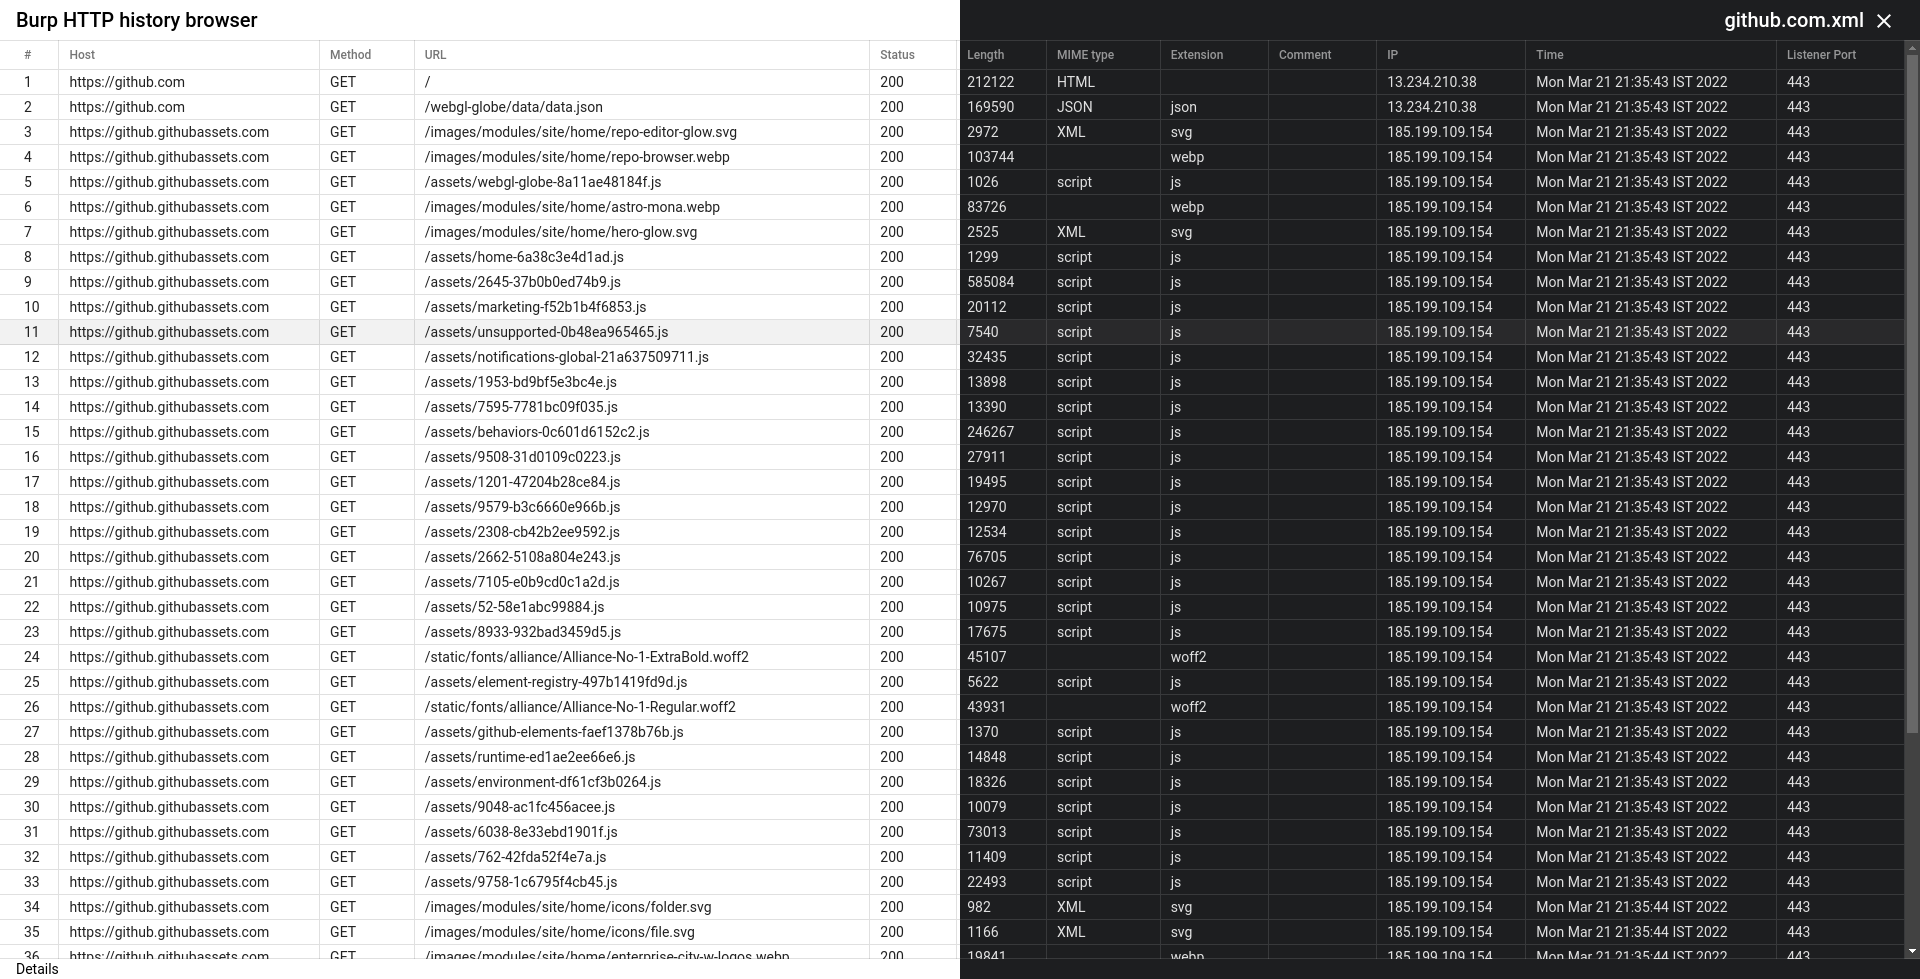
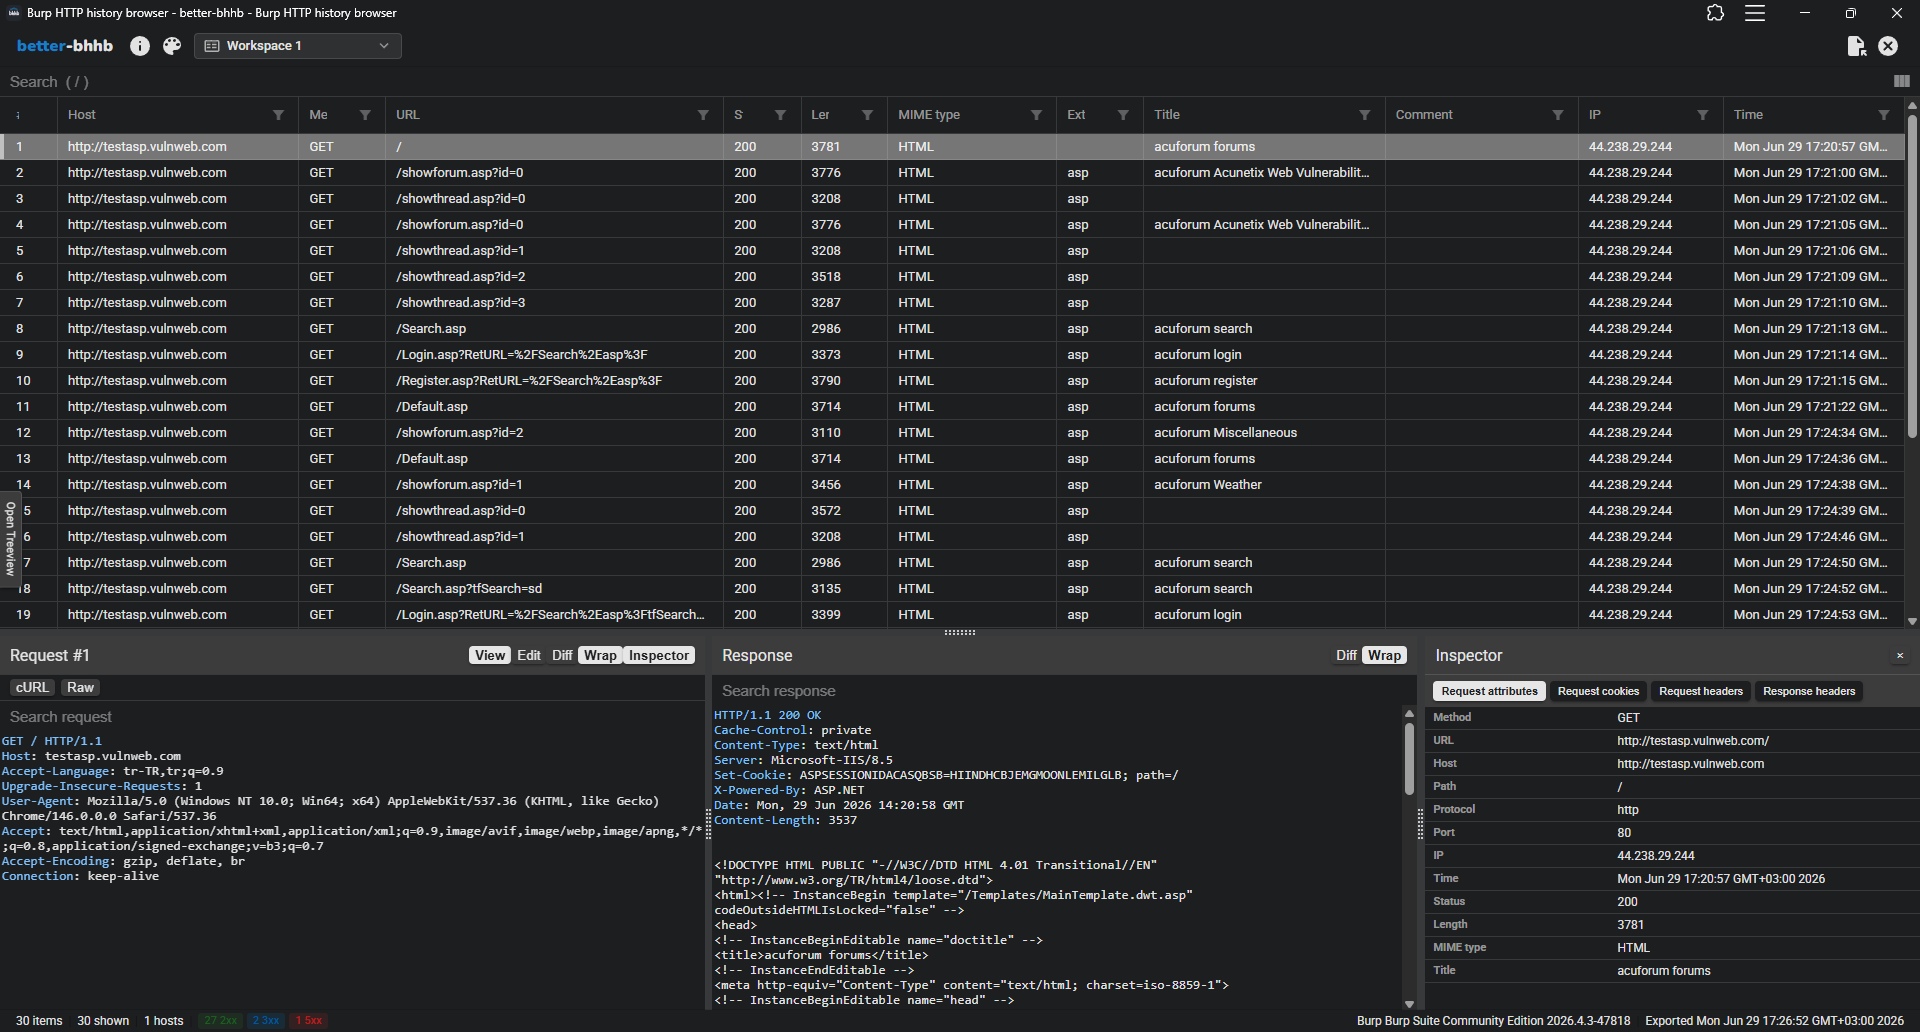
feat: enhance README and info dialog with detailed features and usage instructions; improve dialog styling

diff --git a/src/app/components/header/info-dialog.component.html b/src/app/components/header/info-dialog.component.html
@@ -3,7 +3,13 @@
 </h2>
 <mat-dialog-content class="mat-typography">
   <p align="center">
-    <svg class="app-logo" version="1.1" height="15" viewBox="0 0 108 22" xmlns="http://www.w3.org/2000/svg" xmlns:svg="http://www.w3.org/2000/svg"><text x="1" y="16" font-family="'Nunito', sans-serif" font-weight="900" font-size="16" fill="#177FC5">better<tspan fill="currentColor">-bhhb</tspan></text></svg> is a fork of bhhb — a tool to view HTTP history exported from Burp Suite Community Edition (CE).
+    <svg class="app-logo" version="1.1" height="15" viewBox="0 0 108 22" xmlns="http://www.w3.org/2000/svg" xmlns:svg="http://www.w3.org/2000/svg"><text x="1" y="16" font-family="'Nunito', sans-serif" font-weight="900" font-size="16" fill="#177FC5">better<tspan fill="currentColor">-bhhb</tspan></text></svg>
+    is a Swiss army knife for Burp HTTP history: import, filter, diff, replay, and export, all in the browser.
+  </p>
+  <p align="center">
+    Built for Burp Suite Community Edition. Runs as a
+    <a href="https://developer.mozilla.org/en-US/docs/Web/Progressive_web_apps"><code>PWA</code></a>:
+    install it, work offline, and keep your data on your device.
   </p>
 
   <div class="ext">
@@ -24,45 +30,52 @@
         <span>View Source on GitHub</span>
       </button>
     </a>
-    <a class="btn" href="https://github.com/adityatelange/bhhb">
+    <a class="btn" href="https://github.com/rizakara/better-bhhb/releases?q=burp-extension">
       <button mat-button>
         <svg role="img" viewBox="0 0 24 24" height='30' xmlns="http://www.w3.org/2000/svg" fill="currentColor"
           class="mat-icon notranslate material-icons mat-icon-no-color">
-          <path d="M12 .297c-6.63 0-12 5.373-12 12 0 5.303 3.438 
-                9.8 8.205 11.385.6.113.82-.258.82-.577 0-.285-.01-1.04-.015-2.04-3.338.724-4.042-1.61-4.042-1.61C4.422 
-                18.07 3.633 17.7 3.633 17.7c-1.087-.744.084-.729.084-.729 1.205.084 1.838 1.236 1.838 1.236 
-                1.07 1.835 2.809 1.305 3.495.998.108-.776.417-1.305.76-1.605-2.665-.3-5.466-1.332-5.466-5.93 
-                0-1.31.465-2.38 1.235-3.22-.135-.303-.54-1.523.105-3.176 0 0 1.005-.322 3.3 1.23.96-.267 
-                1.98-.399 3-.405 1.02.006 2.04.138 3 .405 2.28-1.552 3.285-1.23 3.285-1.23.645 1.653.24 2.873.12 
-                3.176.765.84 1.23 1.91 1.23 3.22 0 4.61-2.805 5.625-5.475 5.92.42.36.81 1.096.81 2.22 0 1.606-.015 
-                2.896-.015 3.286 0 .315.21.69.825.57C20.565 22.092 24 17.592 24 12.297c0-6.627-5.373-12-12-12" />
+          <path d="M19 9h-4V3H9v6H5l7 7 7-7zM5 18v2h14v-2H5z" />
         </svg>
-        <span>Original bhhb</span>
+        <span>Burp extension</span>
       </button>
     </a>
   </div>
+
   <hr>
+
+  <h3 class="info-section-title">What problem does this solve?</h3>
   <ul>
-    <li><code>Burp Suite Community Edition</code> has one BIG feature paywalled - Disk-based projects 💾.</li>
-    <li>Because of which Community Edition users cannot save their <code>HTTP history</code> and Sitemap info, which are
-      destroyed after the temporary session is closed 🗑️.</li>
-    <li>Although this is a thing, users can export their Burp CE's HTTP history by <em>selecting the records</em>
-      (Ctrl+A) and using <strong><code>Save items</code></strong> 💾 option in context menu of
-      <code>Proxy-&gt;HTTP history</code> or <code>Target-&gt;Sitemap</code> or <code>Logger</code>.
-    </li>
-    <li>Using that Burp will export the HTTP history along with Requests and Responses into a <em>XML file</em>.</li>
-    <li><strong><code>better-bhhb</code></strong> can open these exported items, parse it and display them in a well-formatted
-      manner. 📋</li>
-    <li>This application is a <a
-        href="https://developer.mozilla.org/en-US/docs/Web/Progressive_web_apps"><code>PWA</code></a>, which can be
-      installed in any chromium based browser and could run offline, with all of the processing done on device itself
-      ⚙️.</li>
-    <li>Linked Forum thread - <a
-        href="https://forum.portswigger.net/thread/how-do-i-view-items-export-from-burp-s-proxy-s-history-0ae0f99e">How
-        do I view items export from Burp's proxy's history?</a></li>
+    <li><code>Burp Suite Community Edition</code> does not include disk-based projects, so HTTP history, sitemap data, and Logger output are lost when a temporary session ends.</li>
+    <li>CE users can export records (Ctrl+A, then <strong><code>Save items</code></strong>) from
+      <code>Proxy-&gt;HTTP history</code>, <code>Target-&gt;Sitemap</code>, or <code>Logger</code> to a Burp XML file.</li>
+    <li><strong><code>better-bhhb</code></strong> opens those exports and presents them in a fast, filterable UI.</li>
   </ul>
 
-  <img width="100%" src="assets/bhhb.png" alt="">
+  <h3 class="info-section-title">Getting data in</h3>
+  <ul>
+    <li><strong>Burp extension (recommended):</strong> install the extension from
+      <a href="https://github.com/rizakara/better-bhhb/releases?q=burp-extension">GitHub Releases</a>,
+      keep this app open, then in Burp use <strong>Extensions &rarr; Send selected&hellip;</strong> (or
+      <strong>Send all&hellip;</strong> for proxy history / sitemap). The app imports automatically within a couple of seconds.</li>
+    <li><strong>Manual import:</strong> use <strong>Import files&hellip;</strong>, drag-and-drop XML onto the page, or reopen a file from
+      <strong>Imported sessions&hellip;</strong> (recent exports are remembered in IndexedDB).</li>
+    <li>On import you can merge, replace, or open a new workspace. Duplicate requests can be merged or skipped.</li>
+  </ul>
+
+  <h3 class="info-section-title">Features</h3>
+  <ul>
+    <li><strong>Import &amp; sessions:</strong> drag-and-drop, session history, duplicate merge/skip</li>
+    <li><strong>Workspaces:</strong> multi-tab layouts with <code>.bhhb-workspace.json</code> import/export</li>
+    <li><strong>Table &amp; filtering:</strong> column filters, tree view (<code>t</code>), global search (<code>/</code>, Ctrl+F)</li>
+    <li><strong>Analysis:</strong> diff, replay, cURL export, inspector, comments (<code>n</code>)</li>
+    <li><strong>More:</strong> fast indexing, themes, filtered export, keyboard navigation</li>
+  </ul>
+
+  <p class="info-license">
+    <a href="https://github.com/rizakara/better-bhhb/blob/main/LICENSE" target="_blank" rel="noopener noreferrer">License</a>
+  </p>
+
+  <img width="100%" src="assets/bhhb.png" alt="Better-BHHB screenshot">
 
 </mat-dialog-content>
 <mat-dialog-actions align="end">

diff --git a/src/app/components/header/info-dialog.component.css b/src/app/components/header/info-dialog.component.css
@@ -22,7 +22,34 @@ a:visited {
 
 ul {
     padding: 0 15px;
+    margin: 0 0 12px;
 }
+
+.info-section-title {
+    margin: 16px 0 8px;
+    font-size: calc(15px * var(--font-scale));
+    font-weight: 600;
+}
+
+.info-license {
+    margin: 4px 0 16px;
+    padding: 0 15px;
+    text-align: left;
+    font-size: calc(12px * var(--font-scale));
+}
+
+.info-license a {
+    color: var(--text-muted);
+    text-decoration: none;
+}
+
+.info-license a:hover,
+.info-license a:focus-visible {
+    color: inherit;
+    text-decoration: underline;
+}
+
+
 
 .ext {
     display: flex;

diff --git a/src/app/components/header/header.component.ts b/src/app/components/header/header.component.ts
@@ -211,6 +211,7 @@ export class HeaderComponent implements OnInit {
     if (this.dialog.openDialogs.length == 0) {
       this.dialog.open(InfoDialogComponent, {
         width: '900px',
+        maxHeight: '85vh',
         panelClass: 'bhhb-dialog',
       });
     }

diff --git a/README.md b/README.md
@@ -1,26 +1,119 @@
 # Better-BHHB
 
-Better Burp HTTP history browser — a fork of [BHHB](https://github.com/adityatelange/bhhb).
+A Swiss army knife for Burp HTTP history: import, filter, diff, replay, and export, all in the browser.
 
-View HTTP history exported from Burp Suite Community Edition (CE).
+Built for Burp Suite Community Edition. Runs entirely as a [PWA](https://developer.mozilla.org/en-US/docs/Web/Progressive_web_apps). Install it, work offline, and keep your data on your device.
 
 ➡️ **https://better-bhhb.pages.dev**
 
-## Disclaimer
-
-This is an independent fork of the original bhhb project created by Aditya Telange. better-bhhb is hosted and maintained separately and is **not affiliated** with the original author. All credit for the original idea and source code goes to [Aditya Telange](https://github.com/adityatelange).
-
-The project is available at:
-- GitHub: [https://github.com/rizakara/better-bhhb](https://github.com/rizakara/better-bhhb)
-- Live demo: [https://better-bhhb.pages.dev](https://better-bhhb.pages.dev)
+[![Screenshot](src/assets/bhhb.png)](https://better-bhhb.pages.dev)
 
 ## What problem does this solve?
-- `Burp Suite Community Edition` has one BIG feature paywalled - Disk-based projects 💾.
-- Because of which Community Edition users cannot save their `HTTP history` and Sitemap info, which are destroyed after the temporary session is closed 🗑️.
-- Although this is a thing, users can export their Burp CE's HTTP history by *selecting the records* (Ctrl+A) and using **`Save items`** 💾 option in context menu of `Proxy->HTTP history` or `Target->Sitemap` or `Logger`.
-- Using that Burp will export the HTTP history along with Requests and Responses into a *XML file*.
-- **`Better-BHHB`** can open these exported items, parse it and display them in a well-formatted manner. 📋
-- This application is a [`PWA`](https://developer.mozilla.org/en-US/docs/Web/Progressive_web_apps), which can be installed in any chromium based browser and could run offline, with all of the processing done on device itself ⚙️.
-- Linked Forum thread - [How do I view items export from Burp's proxy's history?](https://forum.portswigger.net/thread/how-do-i-view-items-export-from-burp-s-proxy-s-history-0ae0f99e)
 
-<kbd>[![](src/assets/bhhb.png)](https://raw.githubusercontent.com/rizakara/better-bhhb/main/src/assets/bhhb.png)</kbd>
+Burp Suite Community Edition does not include disk-based projects, so HTTP history, sitemap data, and Logger output are lost when a temporary session ends.
+
+CE users can still export records (Ctrl+A → **Save items** in the context menu of **Proxy → HTTP history**, **Target → Sitemap**, or **Logger**) to a Burp XML file. **Better-BHHB** opens those exports and presents them in a fast, filterable UI.
+
+Better-BHHB goes further: a [Burp extension](#burp-suite-extension) can push history directly into the app in seconds, with no manual XML export step. Sessions persist in the browser, support multiple workspaces, and include diffing, replay, and advanced filtering.
+
+Related forum thread: [How do I view items export from Burp's proxy's history?](https://forum.portswigger.net/thread/how-do-i-view-items-export-from-burp-s-proxy-s-history-0ae0f99e)
+
+## Quick start
+
+### Option A: Burp extension (recommended)
+
+1. Install the [Better-BHHB Burp extension](burp-extension/README.md) (pre-built JAR from [Releases](https://github.com/rizakara/better-bhhb/releases?q=burp-extension) or build with `./gradlew jar` in `burp-extension/`).
+2. Open Better-BHHB, the live PWA at [better-bhhb.pages.dev](https://better-bhhb.pages.dev) or a local dev server.
+3. In Burp, select items in **Proxy → HTTP history**, **Target → Sitemap**, **Logger**, or **Intruder → attack results**, then right-click → **Extensions → Send selected…** (or **Send all…** for proxy history / sitemap).
+4. The extension starts a short-lived server on `localhost:19876`–`19886`. The PWA polls automatically and imports within a couple of seconds.
+
+See [burp-extension/README.md](burp-extension/README.md) for install steps, PWA URL configuration, and debugging.
+
+### Option B: Import XML manually
+
+1. Export from Burp via **Save items** (see above).
+2. In Better-BHHB, use **Import files…**, drag-and-drop onto the page, or pick a file from **Imported sessions…** (previously opened files are remembered in IndexedDB).
+
+On import you can merge into the current session, replace it, or open a new workspace. Duplicate requests are detected and can be merged or skipped.
+
+## Features
+
+### Import & session management
+
+- **Drag-and-drop** XML import anywhere on the page
+- **IndexedDB persistence:** reopen recent exports from **Imported sessions…** without re-picking files
+- **Import mode dialog:** merge, replace, or import into a new workspace
+- **Duplicate detection** with a merge/skip dialog
+- **Session history** dialog with multi-select restore
+
+### Workspaces (multi-tab)
+
+- Multiple named workspaces, each preserving its own file, filters, column layout, and UI state
+- Create, rename, switch, and close tabs from the workspace menu
+- **Import/export** workspace bundles (`.bhhb-workspace.json`): single workspace or all tabs at once
+
+### Table & filtering
+
+- **Per-column filters** with text modes, value pickers, and active filter chips
+- **Column visibility** and **resizable columns:** preferences persist per workspace
+- **Sitemap tree view** (`t`): browse requests by host and path
+- **Context menu** on cells: filter by value, copy
+- **Global search** (`/` or Ctrl+F) across all columns; **Ctrl+Shift+F** clears all filters
+- Row navigation with arrow keys, Home/End, Page Up/Down
+
+### Request & response analysis
+
+- Dedicated **request** and **response** panels with in-panel search (`r` / `e`) and match navigation
+- **Inspector:** attributes, cookies, request/response headers
+- **Diff mode:** side-by-side or unified comparison between two requests
+- **Replay mode:** edit and resend requests in-browser; export as **cURL**
+- **Per-request comments** (`n`) preserved across export
+- Large bodies are **truncated** with one-click expand for performance
+
+### Performance
+
+- **Web Worker** history indexing with progress UI for large exports
+- Row parsing service with caching and loading states
+
+### UX
+
+- **Light/dark themes** plus adjustable UI font size, row density, and monospace text size
+- Footer **export statistics:** item counts, visible subset, status breakdown, Burp version, export time
+- **Filtered export:** save all items or only the currently filtered subset
+- Native file picker and async save where the browser supports it
+
+## Burp Suite extension
+
+The Java extension lives in [`burp-extension/`](burp-extension/). It exports Burp XML to a temporary localhost server; the PWA pulls it automatically. CORS is locked to the configured PWA origin.
+
+- **Build:** `cd burp-extension && ./gradlew jar`
+- **Releases:** tag `burp-extension-v*` (e.g. `burp-extension-v1.2.0`) triggers CI to publish the JAR and SHA-256 checksum
+- **Docs:** [burp-extension/README.md](burp-extension/README.md)
+
+## Development
+
+**Requirements:** Node.js 22 (`nvm use`), npm
+
+```bash
+git clone https://github.com/rizakara/better-bhhb.git
+cd better-bhhb
+npm ci
+npm start          # http://localhost:4200
+```
+
+```bash
+npm run build      # output: dist/burp-http-history-browser/
+npm test
+```
+
+The app is deployed to [Cloudflare Pages](https://better-bhhb.pages.dev) (build: `npm ci && npm run build`, Node 22).
+
+To point the Burp extension at local dev, set the PWA URL to `http://localhost:4200/` in **Better-BHHB → Configure PWA URL…** (see extension README).
+
+## Disclaimer
+
+This is an independent fork of the original [bhhb](https://github.com/adityatelange/bhhb) project by [Aditya Telange](https://github.com/adityatelange). Better-BHHB is hosted and maintained separately and is **not affiliated** with the original author. Credit for the original idea and source code goes to Aditya Telange.
+
+## License
+
+[MIT](LICENSE). Copyright (c) 2022 Aditya Telange; Copyright (c) 2026 Rıza Kara